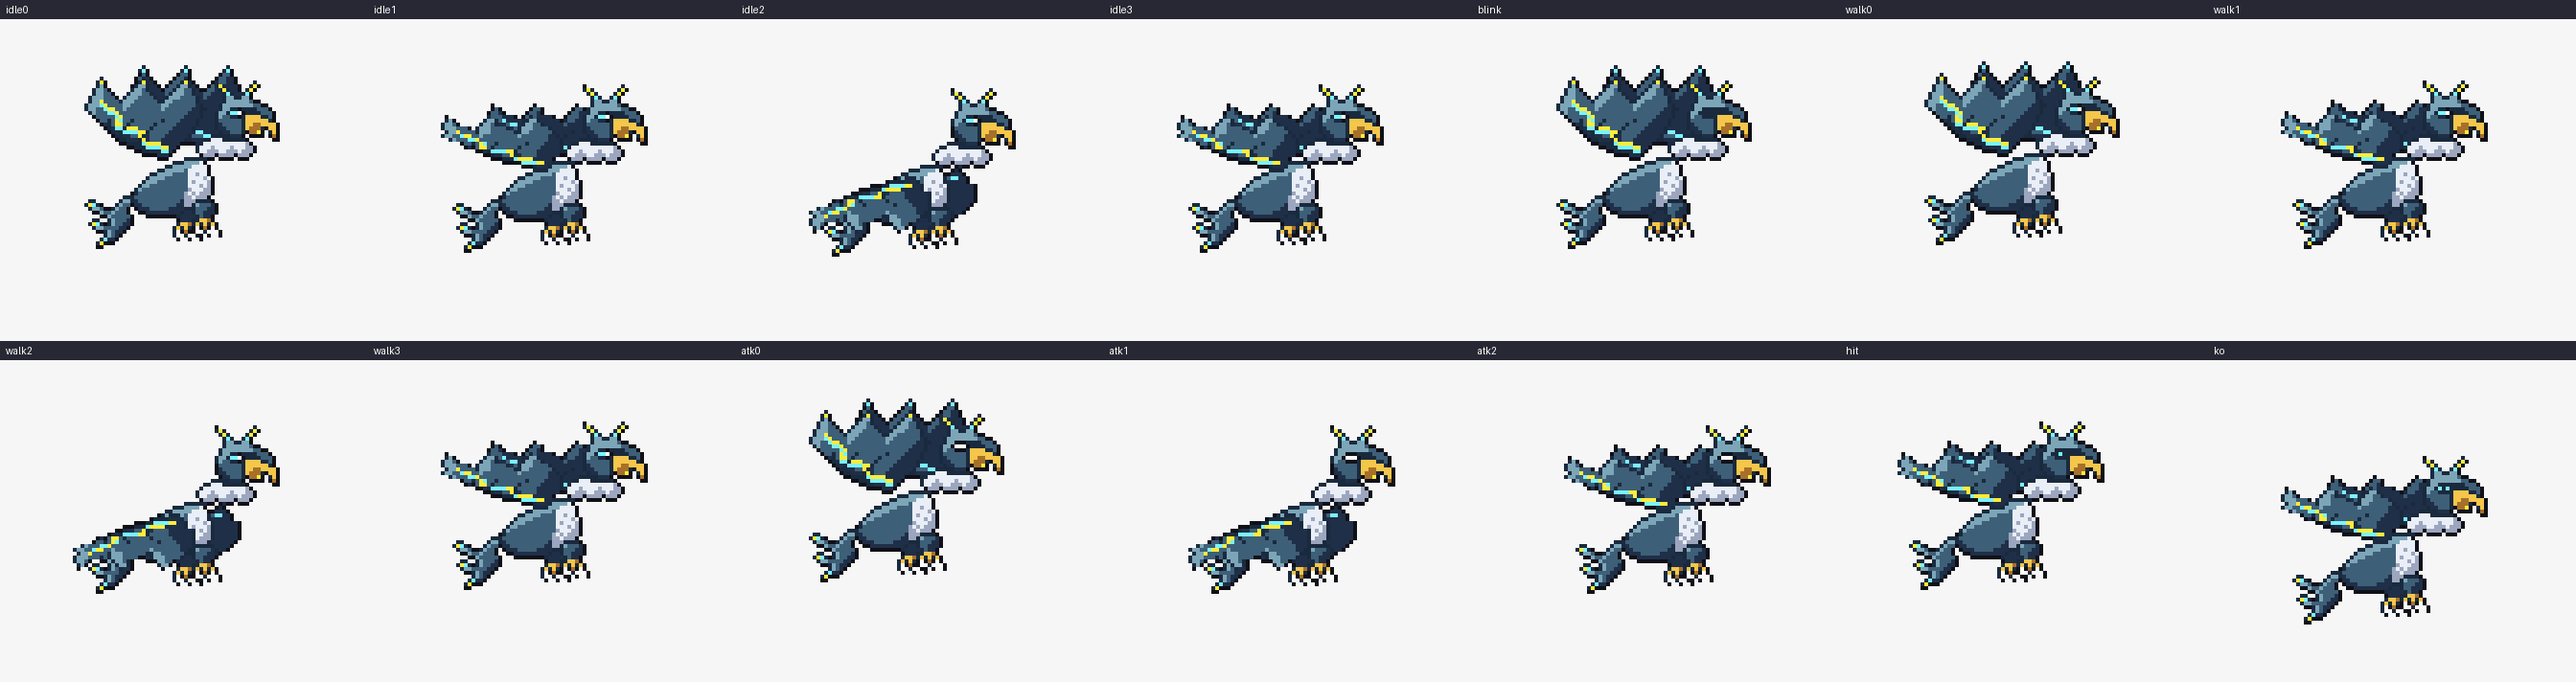
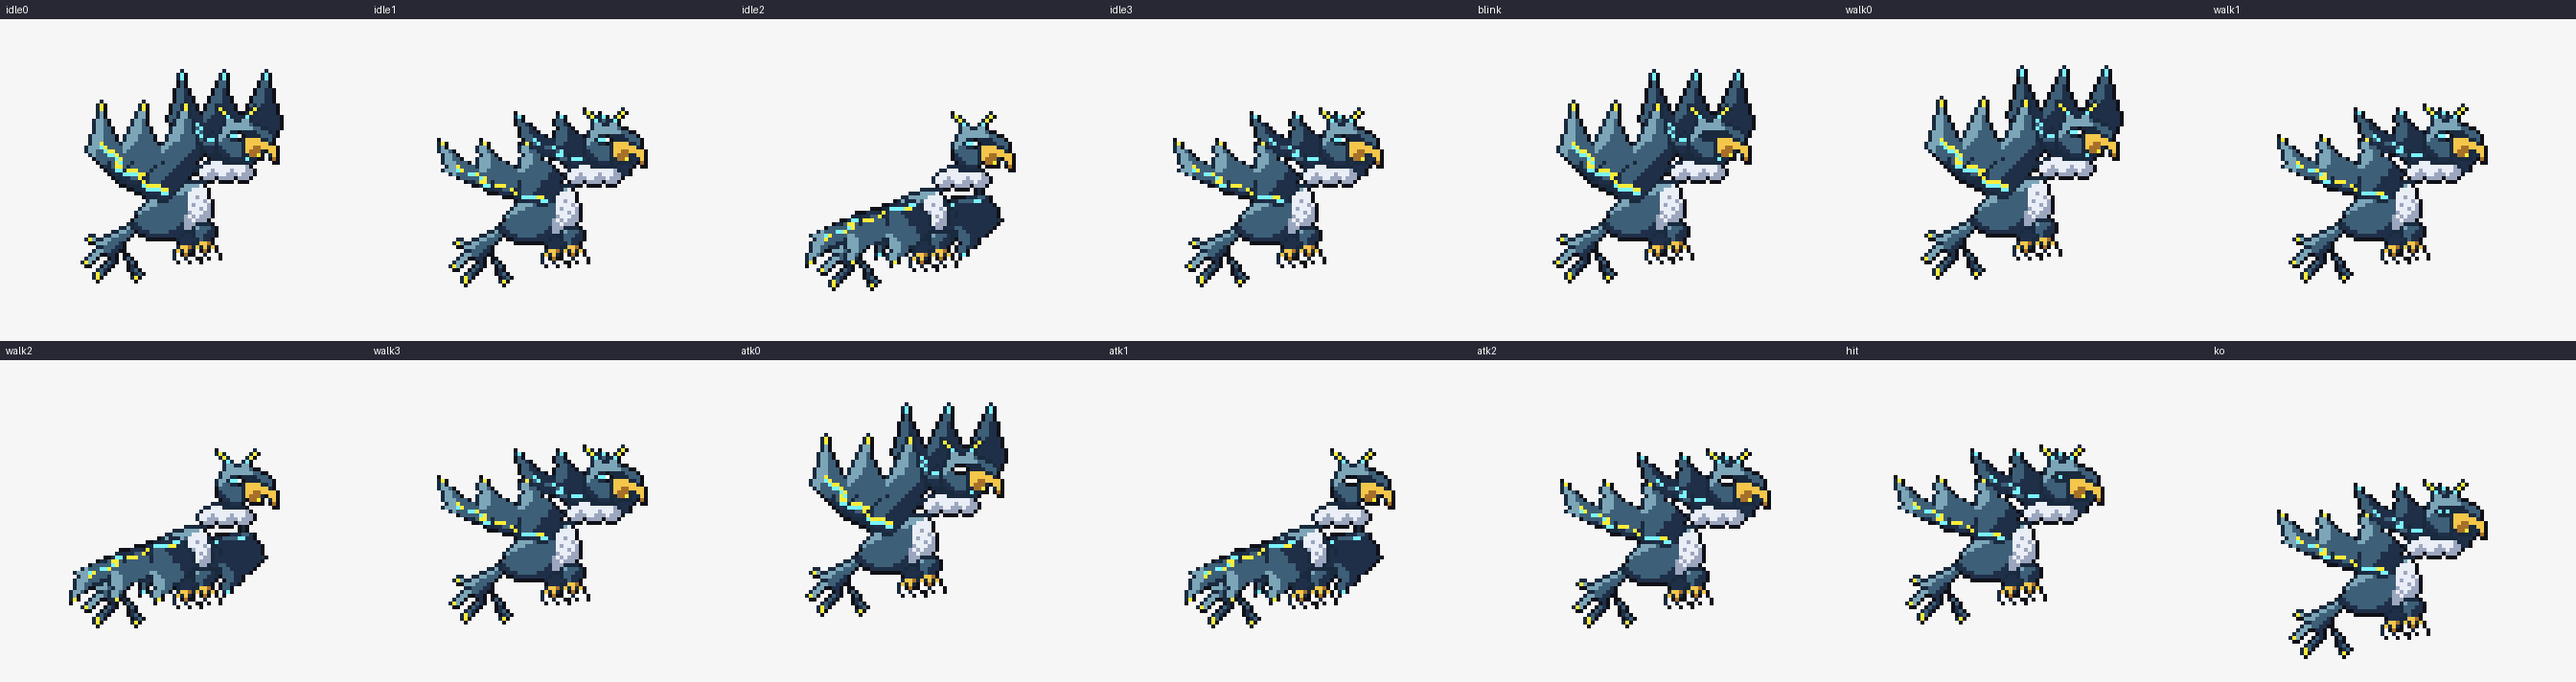
モンスター8体（四つ足：ホムラジシ・エンロウ・モリシシ・ツタジカ・ズツキヒツジ・カマイタチ・オニビギツネ・カゲヒョウ）
Claude-Session: https://claude.ai/code/session_01J9mYv3PRYW1GKv9GU2f7rQ

diff --git a/tools/monsters/ikazuchidori/mon.py b/tools/monsters/ikazuchidori/mon.py
@@ -44,7 +44,8 @@ def bolt(rows, pts):
         for x, c in enumerate(r):
             if c in 'YE' and rows[y][x] in '.k': g[y][x] = rows[y][x]
     return pix.rows_of(g)
-WING_UP = bolt([r.replace('E', 'Q') for r in WING_UP], [(4, 6), (9, 10), (8, 12), (15, 14), (14, 16), (21, 18)])
+WING_UP = [WING_UP[0]] + [r for r in WING_UP[1:6] for _ in (0, 1)] + WING_UP[6:]
+WING_UP = bolt([r.replace('E', 'Q') for r in WING_UP], [(4, 11), (9, 15), (8, 17), (15, 19), (14, 21), (21, 23)])
 def swept(rows):
     keep = [r for y, r in enumerate(rows) if y % 3 != 1]
     H = len(keep); out = []
@@ -95,21 +96,23 @@ HEAD = [
 EYE = ['EEw']
 EYE_ALT = {'blink': ['kkk'], 'atk0|atk1|atk2': ['www'], 'hit': ['kEk'], 'ko': ['EkE']}
 TAIL = [
-    '............kkk.',
-    '..........kkPQk.',
-    '.kk......kPPQk..',
-    'kYEkk...kPQQk...',
-    '.kPPQkkkPQQk....',
-    '..kkPQQPQQQk....',
-    '....kkPQQQQQk...',
-    '..kk..kPQQQZk...',
-    '.kYEkkkPQQZZk...',
-    '..kPPQQQQZZk....',
-    '...kkkPQZZk.....',
-    '.....kPQZk......',
-    '....kEZZk.......',
-    '...kYkkk........',
-    '...kk...........',
+    '..............kk..',
+    '............kkPQk.',
+    '..........kkPPQk..',
+    '........kkPPQQk...',
+    '..kk..kkPPQQQk....',
+    '.kYPkkPPQQQQk.....',
+    '..kkPPPQQQZk......',
+    '....kkQQQZZk......',
+    '...kPPQQZZkk......',
+    '..kPPkkZZk.kk.....',
+    '.kPPk..kZk.kQk....',
+    'kYPk..kQZk..kQk...',
+    '.kk..kQZk...kZk...',
+    '....kQZk....kZQk..',
+    '...kYQk......kZQk.',
+    '...kYk.......kYk..',
+    '....k.........k...',
 ]
 TALON = [
     '.kkkkk...',
@@ -137,19 +140,19 @@ MANE = [
 
 def layers():
     return [
-        dict(n='wingB_up', g='wingB', x=17, y=0, rows=dark(WING_UP), only=UP),
-        dict(n='wingB_mid', g='wingB', x=9, y=9, rows=dark(WING_MID), only=MID),
-        dict(n='wingB_dn', g='wingB', x=9, y=25, rows=dark(WING_DN), only=DN),
-        dict(n='tail', g='tail', x=6, y=33, rows=TAIL),
-        dict(n='talonB', g='talon', x=29, y=36, rows=pix.recolor(TALON, {'P': 'Q', 'Q': 'Z'})),
-        dict(n='body', g='body', x=18, y=24, rows=BODY),
-        dict(n='talon', g='talon', x=34, y=35, rows=TALON),
-        dict(n='mane', g='head', x=35, y=18, rows=MANE),
-        dict(n='head', g='head', x=40, y=4, rows=HEAD),
-        dict(n='eye', g='head', x=44, y=12, rows=EYE, alt=EYE_ALT),
-        dict(n='wingF_up', g='wingF', x=6, y=3, rows=WING_UP, only=UP),
-        dict(n='wingF_mid', g='wingF', x=-3, y=12, rows=WING_MID, only=MID),
-        dict(n='wingF_dn', g='wingF', x=-3, y=27, rows=WING_DN, only=DN),
+        dict(n='wingB_up', g='wingB', x=27, y=1, rows=dark(WING_UP), only=UP),
+        dict(n='wingB_mid', g='wingB', x=17, y=11, rows=dark(WING_MID), only=MID),
+        dict(n='wingB_dn', g='wingB', x=15, y=31, rows=dark(WING_DN), only=DN),
+        dict(n='tail', g='tail', x=5, y=40, rows=TAIL),
+        dict(n='talonB', g='talon', x=29, y=42, rows=pix.recolor(TALON, {'P': 'Q', 'Q': 'Z'})),
+        dict(n='body', g='body', x=18, y=30, rows=BODY),
+        dict(n='talon', g='talon', x=34, y=41, rows=TALON),
+        dict(n='mane', g='head', x=35, y=24, rows=MANE),
+        dict(n='head', g='head', x=40, y=10, rows=HEAD),
+        dict(n='eye', g='head', x=44, y=18, rows=EYE, alt=EYE_ALT),
+        dict(n='wingF_up', g='wingF', x=6, y=9, rows=WING_UP, only=UP),
+        dict(n='wingF_mid', g='wingF', x=-3, y=18, rows=WING_MID, only=MID),
+        dict(n='wingF_dn', g='wingF', x=-3, y=33, rows=WING_DN, only=DN),
     ]
 
 FRAMES = {

diff --git a/tools/monsters/kajikitsurugi/SETTEI.md b/tools/monsters/kajikitsurugi/SETTEI.md
@@ -1,0 +1,32 @@
+# カジキツルギ（仮）
+
+**設定の ルール：属性タイプ ＋ モンスター（戦う ための いきもの）**。かわいい 動物ではなく、元になった 生き物を 「戦う 姿」に 変えた 怪物として 作る。目は つぶらにせず、するどく。
+
+| 項目 | 内容 |
+|---|---|
+| タイプ | はがね ／ みず |
+| もとの 生き物 | カジキ |
+| 分類 | つるぎうお モンスター（第1形態・約54×26） |
+| 性格 | 誇り高い 剣士。強い 相手を 見つけると 帆を 立てて 一騎打ちを いどみ、まっすぐ 突き通す |
+| すみか | 外洋の 潮の 速い 海。嵐の 波を 切り裂いて 泳ぐ |
+
+## 見た目
+- 背は 深い 青、腹は 山形に 並ぶ 鋼の うろこ（はがねタイプ）
+- 鼻先は 刀の ような 剣の くちばし。上の ふちが 白く 光り、下の ふちは のこぎりの 歯
+- 頭に 鋼の かぶと。ひさしの 下で 金色の つり目が 光る
+- 帆の 背びれは 前が 高い 刃。鋼の すじが 通り、攻撃の 前に 立てる
+- 尾びれと 胸びれの ふちも 刃。泳ぐと 水の すじが 引く（みずタイプ）
+
+## 色（GBA風・16色以内 → 11色）
+輪郭 2（黒／濃紺）・背 3（青）・鋼 3（白銀〜灰）・水 2（水色）・目（金）
+
+## 動き
+- 待機：体が ゆっくり 上下し、尾が ゆれる。地面から 少し 浮いている
+- 泳ぎ：尾と 胸びれが 交互に ゆれ、帆が わずかに 遅れて ついてくる
+- 攻撃：身を 引いて 帆を 立て、剣先が きらりと 光る → 水の すじを 引いて 一直線に 突進（剣先で 水が はじける）→ さらに 突き抜ける
+- 被弾：うしろへ 押され、頭が 下がる
+- ダウン：腹を 上に して ひっくり返る
+
+## ゲーム上の 目安
+- 攻撃と 素早さが 高い・防御は ふつう
+- 技の 例：つるぎとっしん（はがね）、なみきり（みず）、ほをたてる（攻撃アップ）
